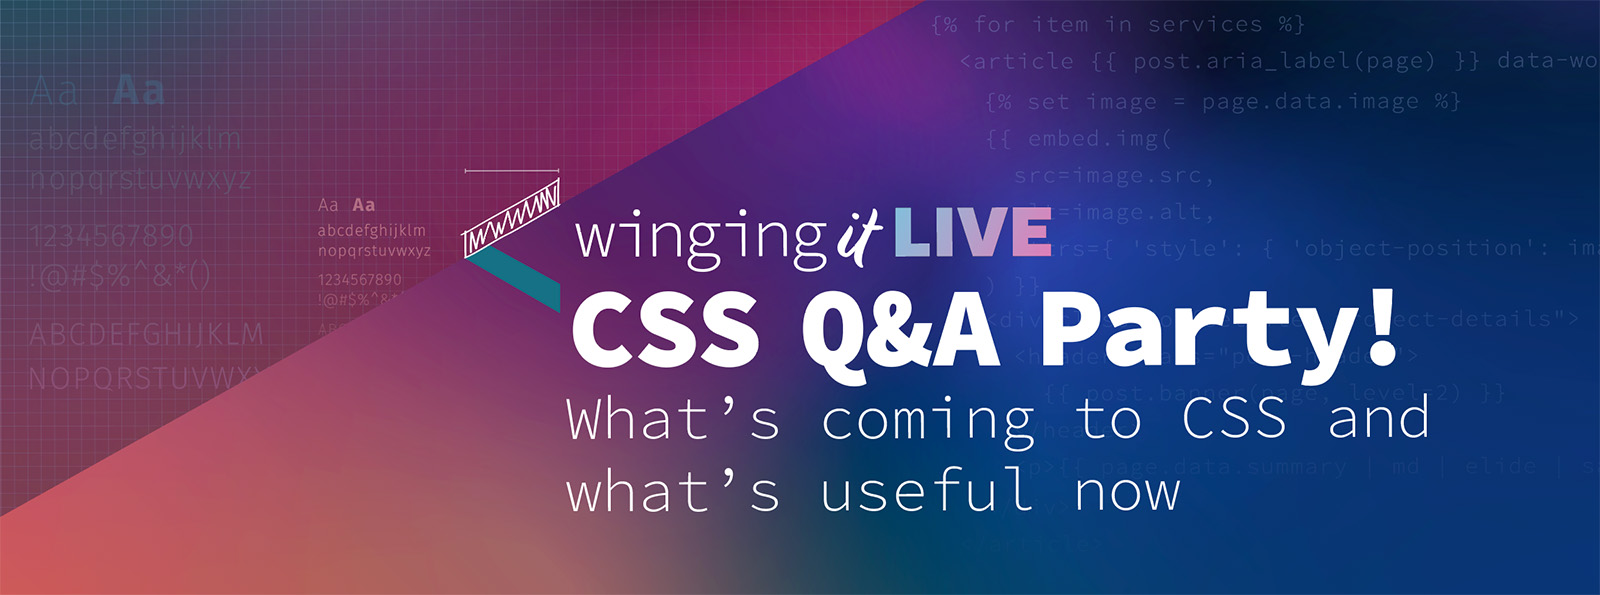
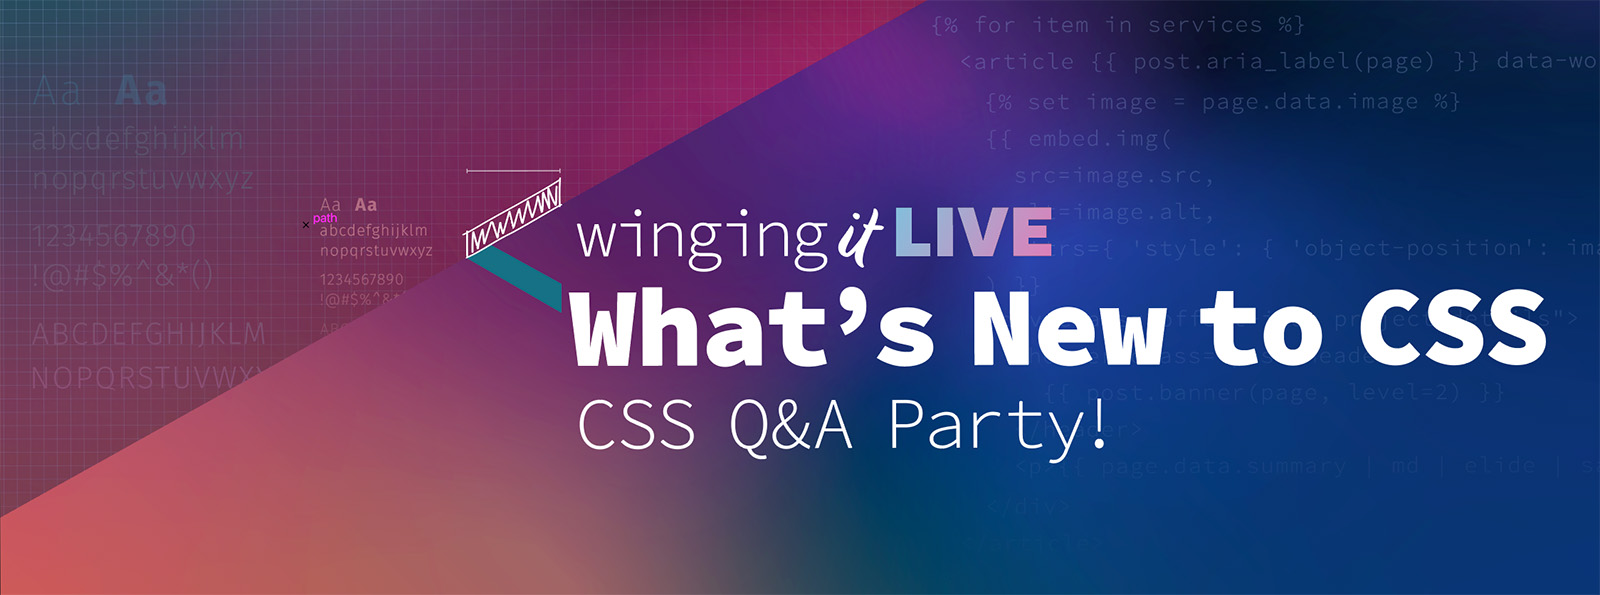
change title and subtitle

diff --git a/content/blog/wingingit/winging-it-19.md b/content/blog/wingingit/winging-it-19.md
@@ -1,6 +1,6 @@
 ---
-title: CSS Q&A Party!
-sub: What's coming to CSS and what's useful now
+title: What's New to CSS
+sub: CSS Q&A Party!
 episode: 19
 tags:
   - CSS
